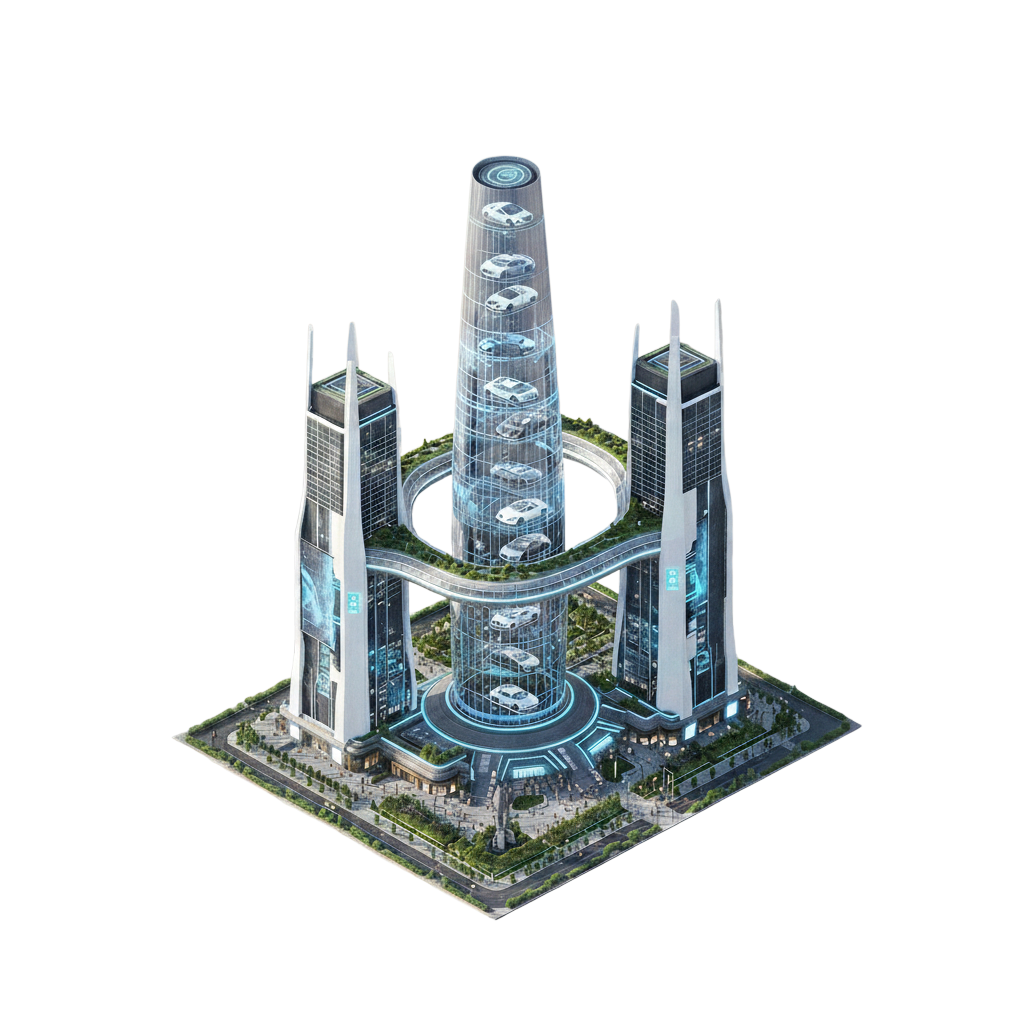
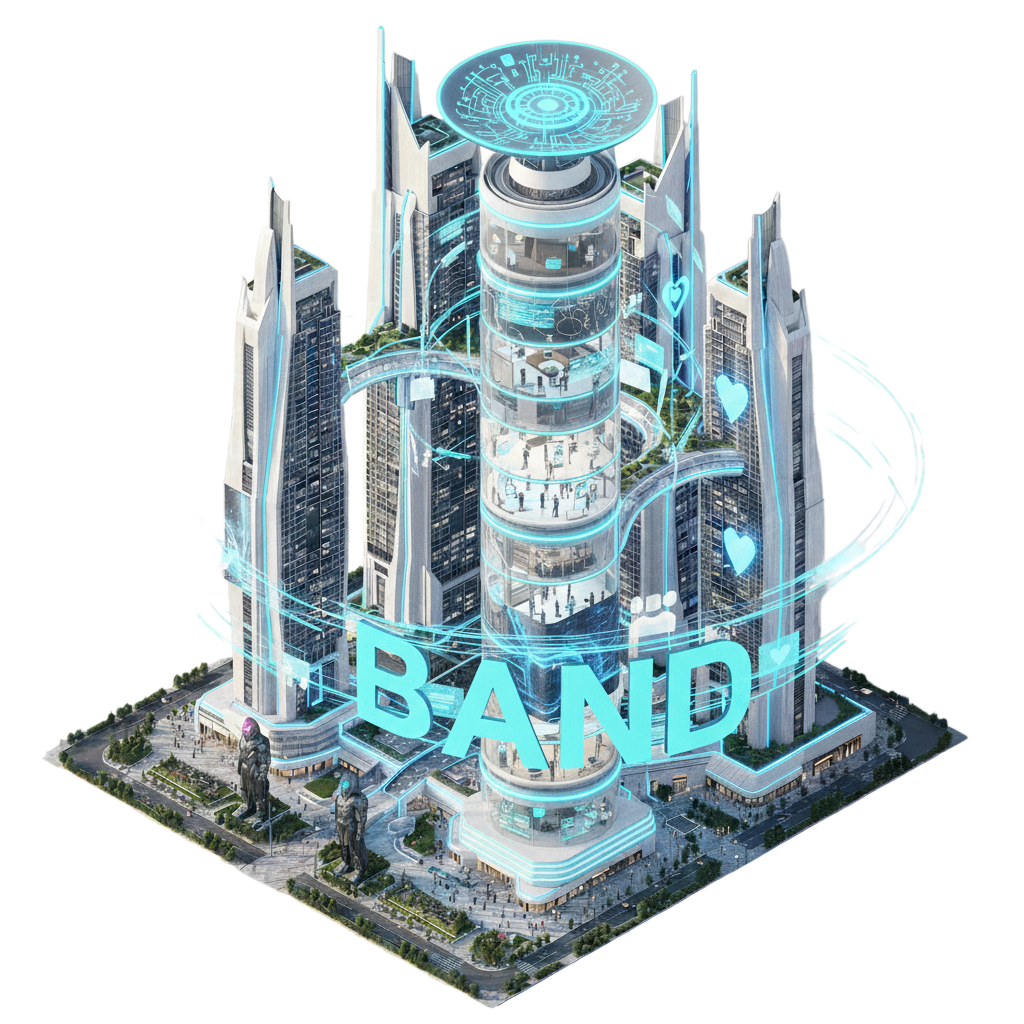
Add files via upload

diff --git a/index.html b/index.html
@@ -177,12 +177,12 @@
             { id: 1, text: "남성타워", url: "" },
             { id: 2, text: "여성타워", url: "" },
             { id: 3, text: "모델하우스", url: "" },
-            { id: 4, text: "없음", url: "" },
-            { id: 5, text: "없음", url: "" },
-            { id: 6, text: "자동차타워", url: "https://autonote.co.kr/" },
-            { id: 7, text: "족발타운", url: "" },
-            { id: 8, text: "회타운", url: "" },
-            { id: 9, text: "밴드타워", url: "https://www.band.us/" },
+            { id: 4, text: "족발타운", url: "" },
+            { id: 5, text: "자동차타워", url: "https://autonote.co.kr/" },
+            { id: 6, text: "밴드타워", url: "https://www.band.us/" },
+            { id: 7, text: "회타운", url: "" },
+            { id: 8, text: "없음", url: "" },
+            { id: 9, text: "없음", url: "" },
             { id: 10, text: "없음", url: "" },
             { id: 11, text: "없음", url: "" },
             { id: 12, text: "없음", url: "" }
